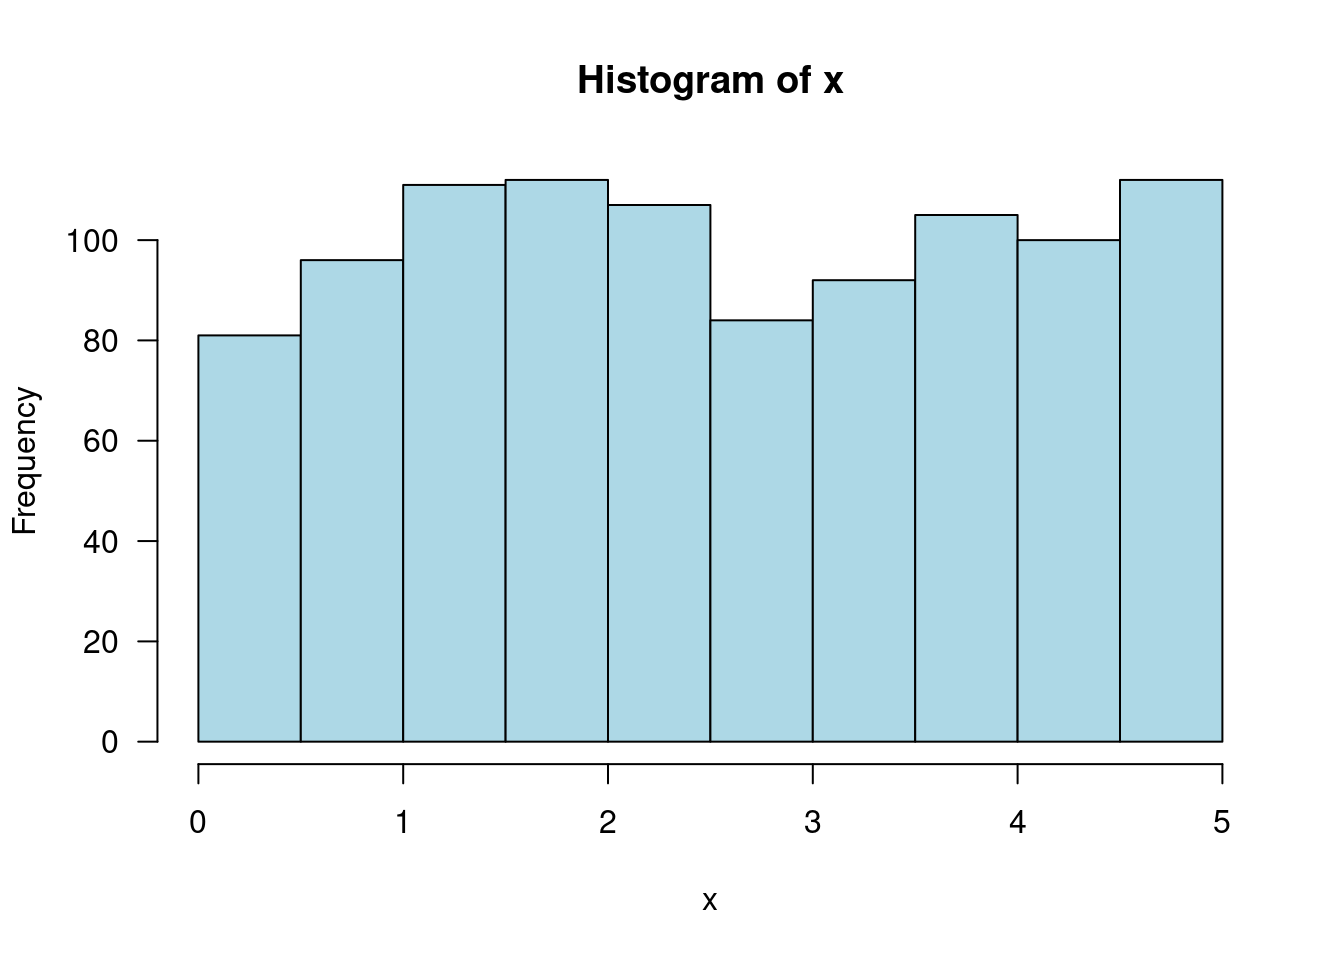
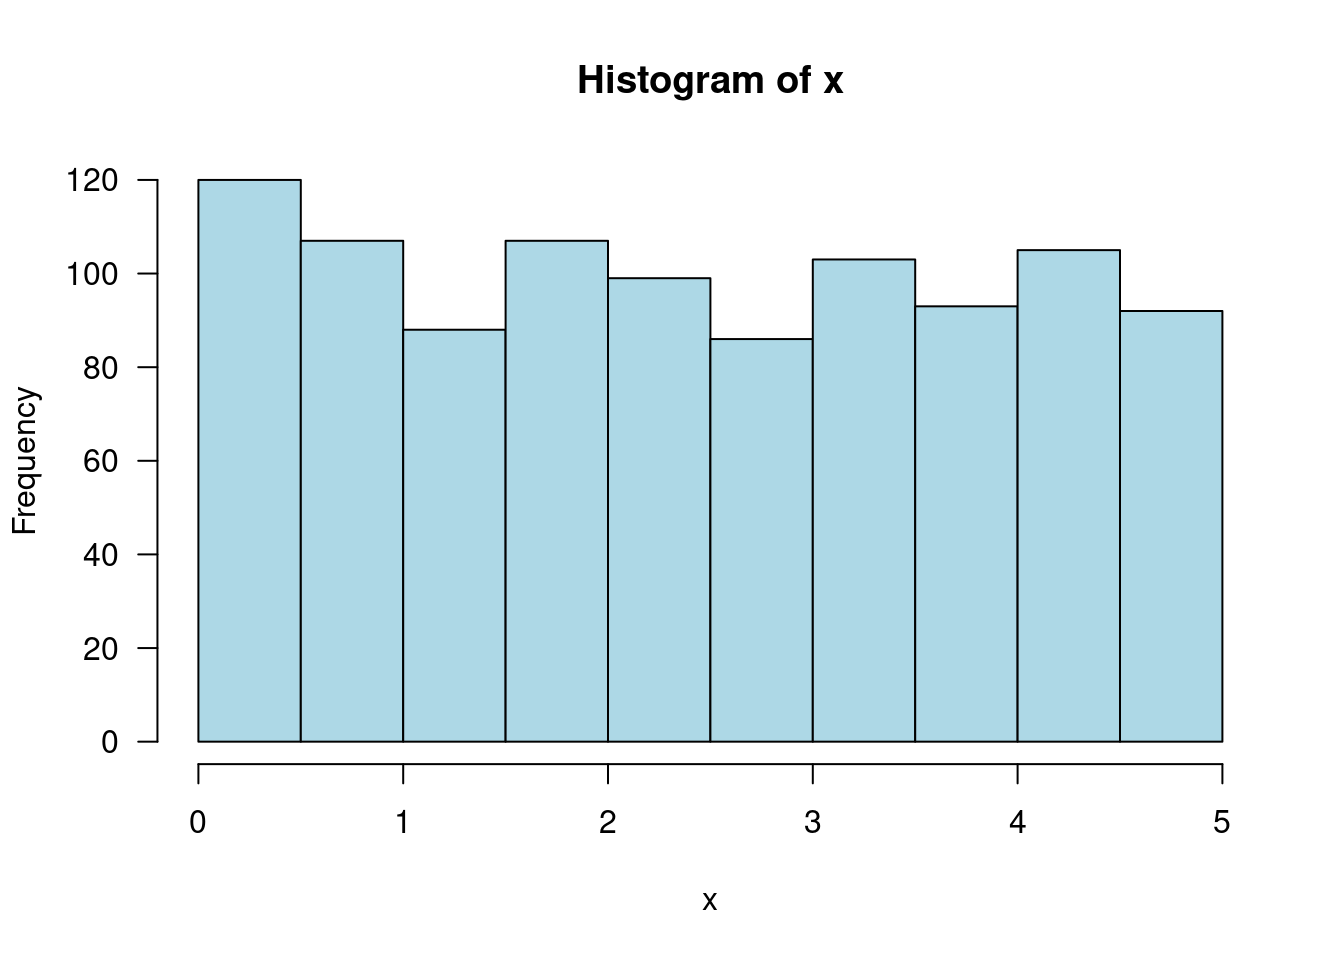
Deploying to gh-pages from @ jtr13/1201@3ab42acd55301fc0e6a9e22d4e1b2791ad2ff2e8 🚀

diff --git a/ch.-4-continuous-random-variables-and-probability-distributions.html b/ch.-4-continuous-random-variables-and-probability-distributions.html
@@ -81,12 +81,12 @@
 <p><span class="math inline">\(f(x) = .2\)</span> for <span class="math inline">\(0 \leq x \leq 5\)</span>, 0 otherwise.</p>
 <div class="sourceCode" id="cb158"><pre class="downlit sourceCode r">
 <code class="sourceCode R"><span><span class="fu"><a href="https://rdrr.io/r/stats/Uniform.html">runif</a></span><span class="op">(</span>n <span class="op">=</span> <span class="fl">1</span>, min <span class="op">=</span> <span class="fl">0</span>, max <span class="op">=</span> <span class="fl">5</span><span class="op">)</span></span></code></pre></div>
-<pre><code>## [1] 0.2649066</code></pre>
+<pre><code>## [1] 1.517748</code></pre>
 <p>Take the average of 1000 picks:</p>
 <div class="sourceCode" id="cb160"><pre class="downlit sourceCode r">
 <code class="sourceCode R"><span><span class="va">x</span> <span class="op">&lt;-</span> <span class="fu"><a href="https://rdrr.io/r/stats/Uniform.html">runif</a></span><span class="op">(</span>n <span class="op">=</span> <span class="fl">1000</span>, min <span class="op">=</span> <span class="fl">0</span>, max <span class="op">=</span> <span class="fl">5</span><span class="op">)</span></span>
 <span><span class="fu"><a href="https://rdrr.io/r/base/mean.html">mean</a></span><span class="op">(</span><span class="va">x</span><span class="op">)</span></span></code></pre></div>
-<pre><code>## [1] 2.551385</code></pre>
+<pre><code>## [1] 2.436965</code></pre>
 <p>Draw a histogram of the 1000 picks:</p>
 <div class="sourceCode" id="cb162"><pre class="downlit sourceCode r">
 <code class="sourceCode R"><span><span class="fu"><a href="https://rdrr.io/r/graphics/hist.html">hist</a></span><span class="op">(</span><span class="va">x</span>, las <span class="op">=</span> <span class="fl">1</span>, col <span class="op">=</span> <span class="st">"lightblue"</span><span class="op">)</span></span></code></pre></div>
@@ -269,7 +269,7 @@ aid, sothat <em>p = .25</em>. What is the probability that at most 10 students r
 <footer class="bg-primary text-light mt-5"><div class="container"><div class="row">
 
   <div class="col-12 col-md-6 mt-3">
-    <p>"<strong>Stat 1201 Resources</strong>" was written by Joyce Robbins. It was last built on 2023-04-08.</p>
+    <p>"<strong>Stat 1201 Resources</strong>" was written by Joyce Robbins. It was last built on 2023-04-16.</p>
   </div>
 
   <div class="col-12 col-md-6 mt-3">

diff --git a/ch.-1-descriptive-statistics.html b/ch.-1-descriptive-statistics.html
@@ -76,12 +76,12 @@
 <p><strong>Ex:</strong> To generate a sample of 6 numbers from the integers between 1 and 20:</p>
 <div class="sourceCode" id="cb26"><pre class="downlit sourceCode r">
 <code class="sourceCode R"><span><span class="fu"><a href="https://rdrr.io/r/base/sample.html">sample</a></span><span class="op">(</span>x <span class="op">=</span> <span class="fl">1</span><span class="op">:</span><span class="fl">20</span>, size  <span class="op">=</span> <span class="fl">6</span><span class="op">)</span></span></code></pre></div>
-<pre><code>## [1] 19 10 16  7  3  2</code></pre>
+<pre><code>## [1] 15 19  4 10 18 13</code></pre>
 <p>Note: this syntax assumes that there is no replacement (it won’t pick the same number twice).
 If you want to sample <em>with</em> replacement use the following:</p>
 <div class="sourceCode" id="cb28"><pre class="downlit sourceCode r">
 <code class="sourceCode R"><span><span class="fu"><a href="https://rdrr.io/r/base/sample.html">sample</a></span><span class="op">(</span>x <span class="op">=</span> <span class="fl">1</span><span class="op">:</span><span class="fl">20</span>, size <span class="op">=</span> <span class="fl">8</span>, replace <span class="op">=</span> <span class="cn">TRUE</span><span class="op">)</span></span></code></pre></div>
-<pre><code>## [1] 20 13  6 17  6 20 11 14</code></pre>
+<pre><code>## [1] 13 10 19  5  3 19  4  3</code></pre>
 </div>
 <div id="pictorial-and-tabular-methods-in-descriptive-statistics" class="section level2 unnumbered">
 <h2>1.2 Pictorial and Tabular Methods in Descriptive Statistics<a class="anchor" aria-label="anchor" href="#pictorial-and-tabular-methods-in-descriptive-statistics"><i class="fas fa-link"></i></a>
@@ -367,7 +367,7 @@ We use an almost identical syntax to generate density histograms, but add a cond
 <footer class="bg-primary text-light mt-5"><div class="container"><div class="row">
 
   <div class="col-12 col-md-6 mt-3">
-    <p>"<strong>Stat 1201 Resources</strong>" was written by Joyce Robbins. It was last built on 2023-04-08.</p>
+    <p>"<strong>Stat 1201 Resources</strong>" was written by Joyce Robbins. It was last built on 2023-04-16.</p>
   </div>
 
   <div class="col-12 col-md-6 mt-3">

diff --git a/ch.-14-chi-squared-test.html b/ch.-14-chi-squared-test.html
@@ -84,10 +84,11 @@
 <div id="resources-2" class="section level2 unnumbered">
 <h2>Resources<a class="anchor" aria-label="anchor" href="#resources-2"><i class="fas fa-link"></i></a>
 </h2>
+<p><a href="https://www.mathsisfun.com/data/chi-square-calculator.html">“Math is Fun” Chi Square Calculator</a></p>
+<p>[“Social Science Statistics” Chi Square Calculator](<a href="http://bit.ly/chisquare1201" class="uri">http://bit.ly/chisquare1201</a>](<a href="https://www.socscistatistics.com/tests/chisquare2/default2.aspx" class="uri">https://www.socscistatistics.com/tests/chisquare2/default2.aspx</a>)</p>
+<p><a href="https://saylordotorg.github.io/text_introductory-statistics/s15-01-chi-square-tests-for-independe.html">Chi Squared Distribution Curves</a></p>
 <p>Chi Square Table</p>
 <div class="inline-figure"><img src="chisquare.png" style="width:85.0%"></div>
-<p><a href="http://bit.ly/chisquare1201">Chi Squared Test Calculator</a></p>
-<p><a href="https://saylordotorg.github.io/text_introductory-statistics/s15-01-chi-square-tests-for-independe.html">Chi Squared Distribution Curves</a></p>
 </div>
 <div id="r-4" class="section level2 unnumbered">
 <h2>R<a class="anchor" aria-label="anchor" href="#r-4"><i class="fas fa-link"></i></a>
@@ -249,7 +250,7 @@
 <footer class="bg-primary text-light mt-5"><div class="container"><div class="row">
 
   <div class="col-12 col-md-6 mt-3">
-    <p>"<strong>Stat 1201 Resources</strong>" was written by Joyce Robbins. It was last built on 2023-04-08.</p>
+    <p>"<strong>Stat 1201 Resources</strong>" was written by Joyce Robbins. It was last built on 2023-04-16.</p>
   </div>
 
   <div class="col-12 col-md-6 mt-3">

diff --git a/404.html b/404.html
@@ -84,7 +84,7 @@ the table of contents to find the page you are looking for.</p>
 <footer class="bg-primary text-light mt-5"><div class="container"><div class="row">
 
   <div class="col-12 col-md-6 mt-3">
-    <p>"<strong>Stat 1201 Resources</strong>" was written by Joyce Robbins. It was last built on 2023-04-08.</p>
+    <p>"<strong>Stat 1201 Resources</strong>" was written by Joyce Robbins. It was last built on 2023-04-16.</p>
   </div>
 
   <div class="col-12 col-md-6 mt-3">

diff --git a/ch.-5-joint-probability.html b/ch.-5-joint-probability.html
@@ -147,7 +147,7 @@ Two points are needed to calculate r.
 <footer class="bg-primary text-light mt-5"><div class="container"><div class="row">
 
   <div class="col-12 col-md-6 mt-3">
-    <p>"<strong>Stat 1201 Resources</strong>" was written by Joyce Robbins. It was last built on 2023-04-08.</p>
+    <p>"<strong>Stat 1201 Resources</strong>" was written by Joyce Robbins. It was last built on 2023-04-16.</p>
   </div>
 
   <div class="col-12 col-md-6 mt-3">

diff --git a/ch.-12-linear-regression.html b/ch.-12-linear-regression.html
@@ -292,7 +292,7 @@
 <footer class="bg-primary text-light mt-5"><div class="container"><div class="row">
 
   <div class="col-12 col-md-6 mt-3">
-    <p>"<strong>Stat 1201 Resources</strong>" was written by Joyce Robbins. It was last built on 2023-04-08.</p>
+    <p>"<strong>Stat 1201 Resources</strong>" was written by Joyce Robbins. It was last built on 2023-04-16.</p>
   </div>
 
   <div class="col-12 col-md-6 mt-3">

diff --git a/ch.-13-nonlinear-and-multiple-regression.html b/ch.-13-nonlinear-and-multiple-regression.html
@@ -104,7 +104,7 @@
 <footer class="bg-primary text-light mt-5"><div class="container"><div class="row">
 
   <div class="col-12 col-md-6 mt-3">
-    <p>"<strong>Stat 1201 Resources</strong>" was written by Joyce Robbins. It was last built on 2023-04-08.</p>
+    <p>"<strong>Stat 1201 Resources</strong>" was written by Joyce Robbins. It was last built on 2023-04-16.</p>
   </div>
 
   <div class="col-12 col-md-6 mt-3">

diff --git a/ch.-2-conditional-probability.html b/ch.-2-conditional-probability.html
@@ -106,7 +106,7 @@
 <footer class="bg-primary text-light mt-5"><div class="container"><div class="row">
 
   <div class="col-12 col-md-6 mt-3">
-    <p>"<strong>Stat 1201 Resources</strong>" was written by Joyce Robbins. It was last built on 2023-04-08.</p>
+    <p>"<strong>Stat 1201 Resources</strong>" was written by Joyce Robbins. It was last built on 2023-04-16.</p>
   </div>
 
   <div class="col-12 col-md-6 mt-3">

diff --git a/ch.-2-probability.html b/ch.-2-probability.html
@@ -152,7 +152,7 @@
 <footer class="bg-primary text-light mt-5"><div class="container"><div class="row">
 
   <div class="col-12 col-md-6 mt-3">
-    <p>"<strong>Stat 1201 Resources</strong>" was written by Joyce Robbins. It was last built on 2023-04-08.</p>
+    <p>"<strong>Stat 1201 Resources</strong>" was written by Joyce Robbins. It was last built on 2023-04-16.</p>
   </div>
 
   <div class="col-12 col-md-6 mt-3">

diff --git a/ch.-3-discrete-distributions.html b/ch.-3-discrete-distributions.html
@@ -364,7 +364,7 @@
 <footer class="bg-primary text-light mt-5"><div class="container"><div class="row">
 
   <div class="col-12 col-md-6 mt-3">
-    <p>"<strong>Stat 1201 Resources</strong>" was written by Joyce Robbins. It was last built on 2023-04-08.</p>
+    <p>"<strong>Stat 1201 Resources</strong>" was written by Joyce Robbins. It was last built on 2023-04-16.</p>
   </div>
 
   <div class="col-12 col-md-6 mt-3">

diff --git a/ch.-5-random-samples.html b/ch.-5-random-samples.html
@@ -107,7 +107,7 @@
 <footer class="bg-primary text-light mt-5"><div class="container"><div class="row">
 
   <div class="col-12 col-md-6 mt-3">
-    <p>"<strong>Stat 1201 Resources</strong>" was written by Joyce Robbins. It was last built on 2023-04-08.</p>
+    <p>"<strong>Stat 1201 Resources</strong>" was written by Joyce Robbins. It was last built on 2023-04-16.</p>
   </div>
 
   <div class="col-12 col-md-6 mt-3">

diff --git a/ch.-6-point-estimation.html b/ch.-6-point-estimation.html
@@ -108,7 +108,7 @@
 <footer class="bg-primary text-light mt-5"><div class="container"><div class="row">
 
   <div class="col-12 col-md-6 mt-3">
-    <p>"<strong>Stat 1201 Resources</strong>" was written by Joyce Robbins. It was last built on 2023-04-08.</p>
+    <p>"<strong>Stat 1201 Resources</strong>" was written by Joyce Robbins. It was last built on 2023-04-16.</p>
   </div>
 
   <div class="col-12 col-md-6 mt-3">
